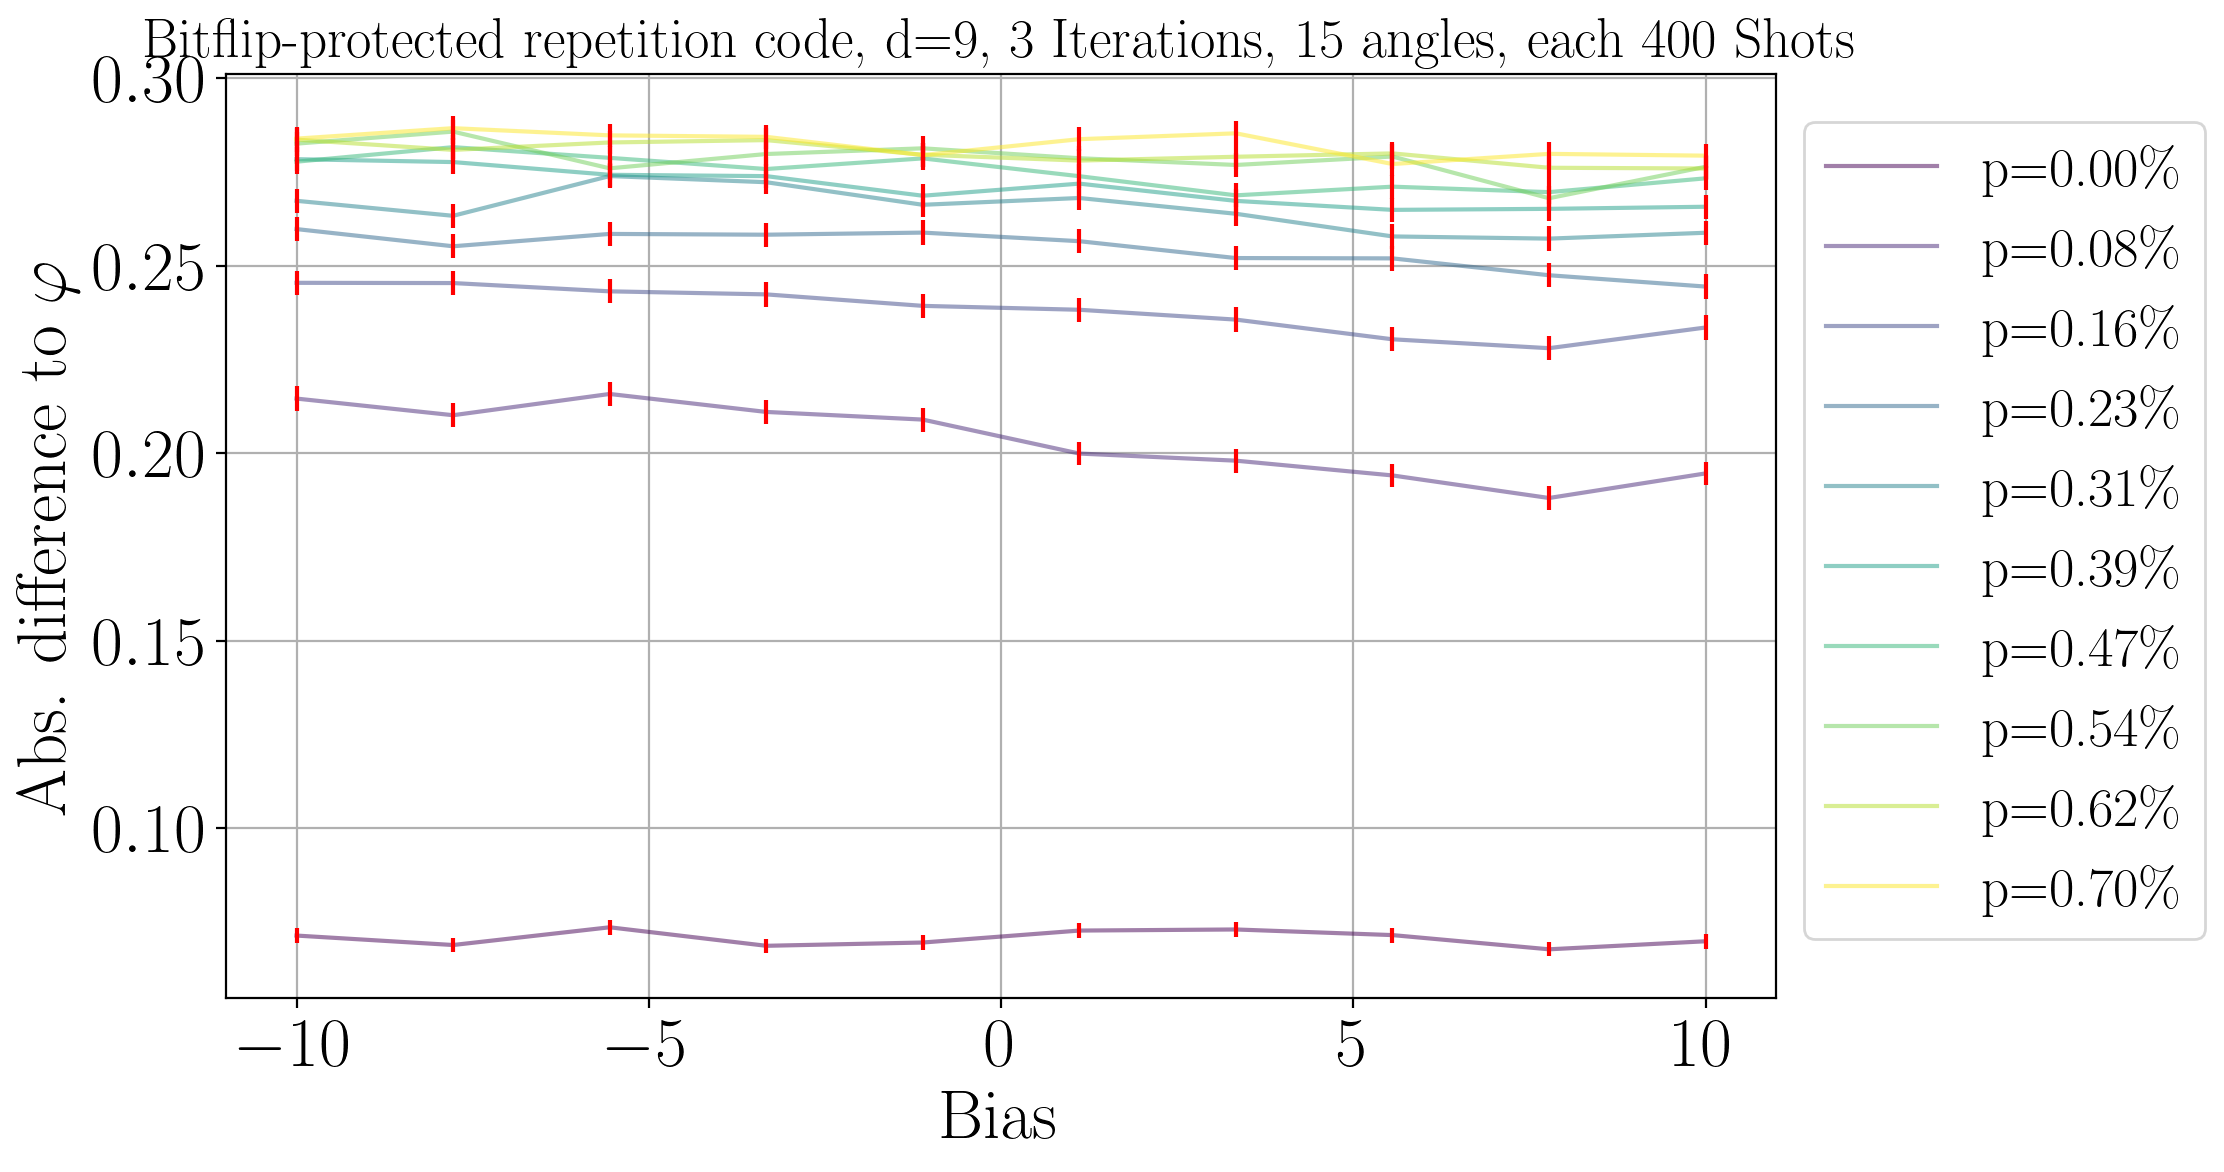
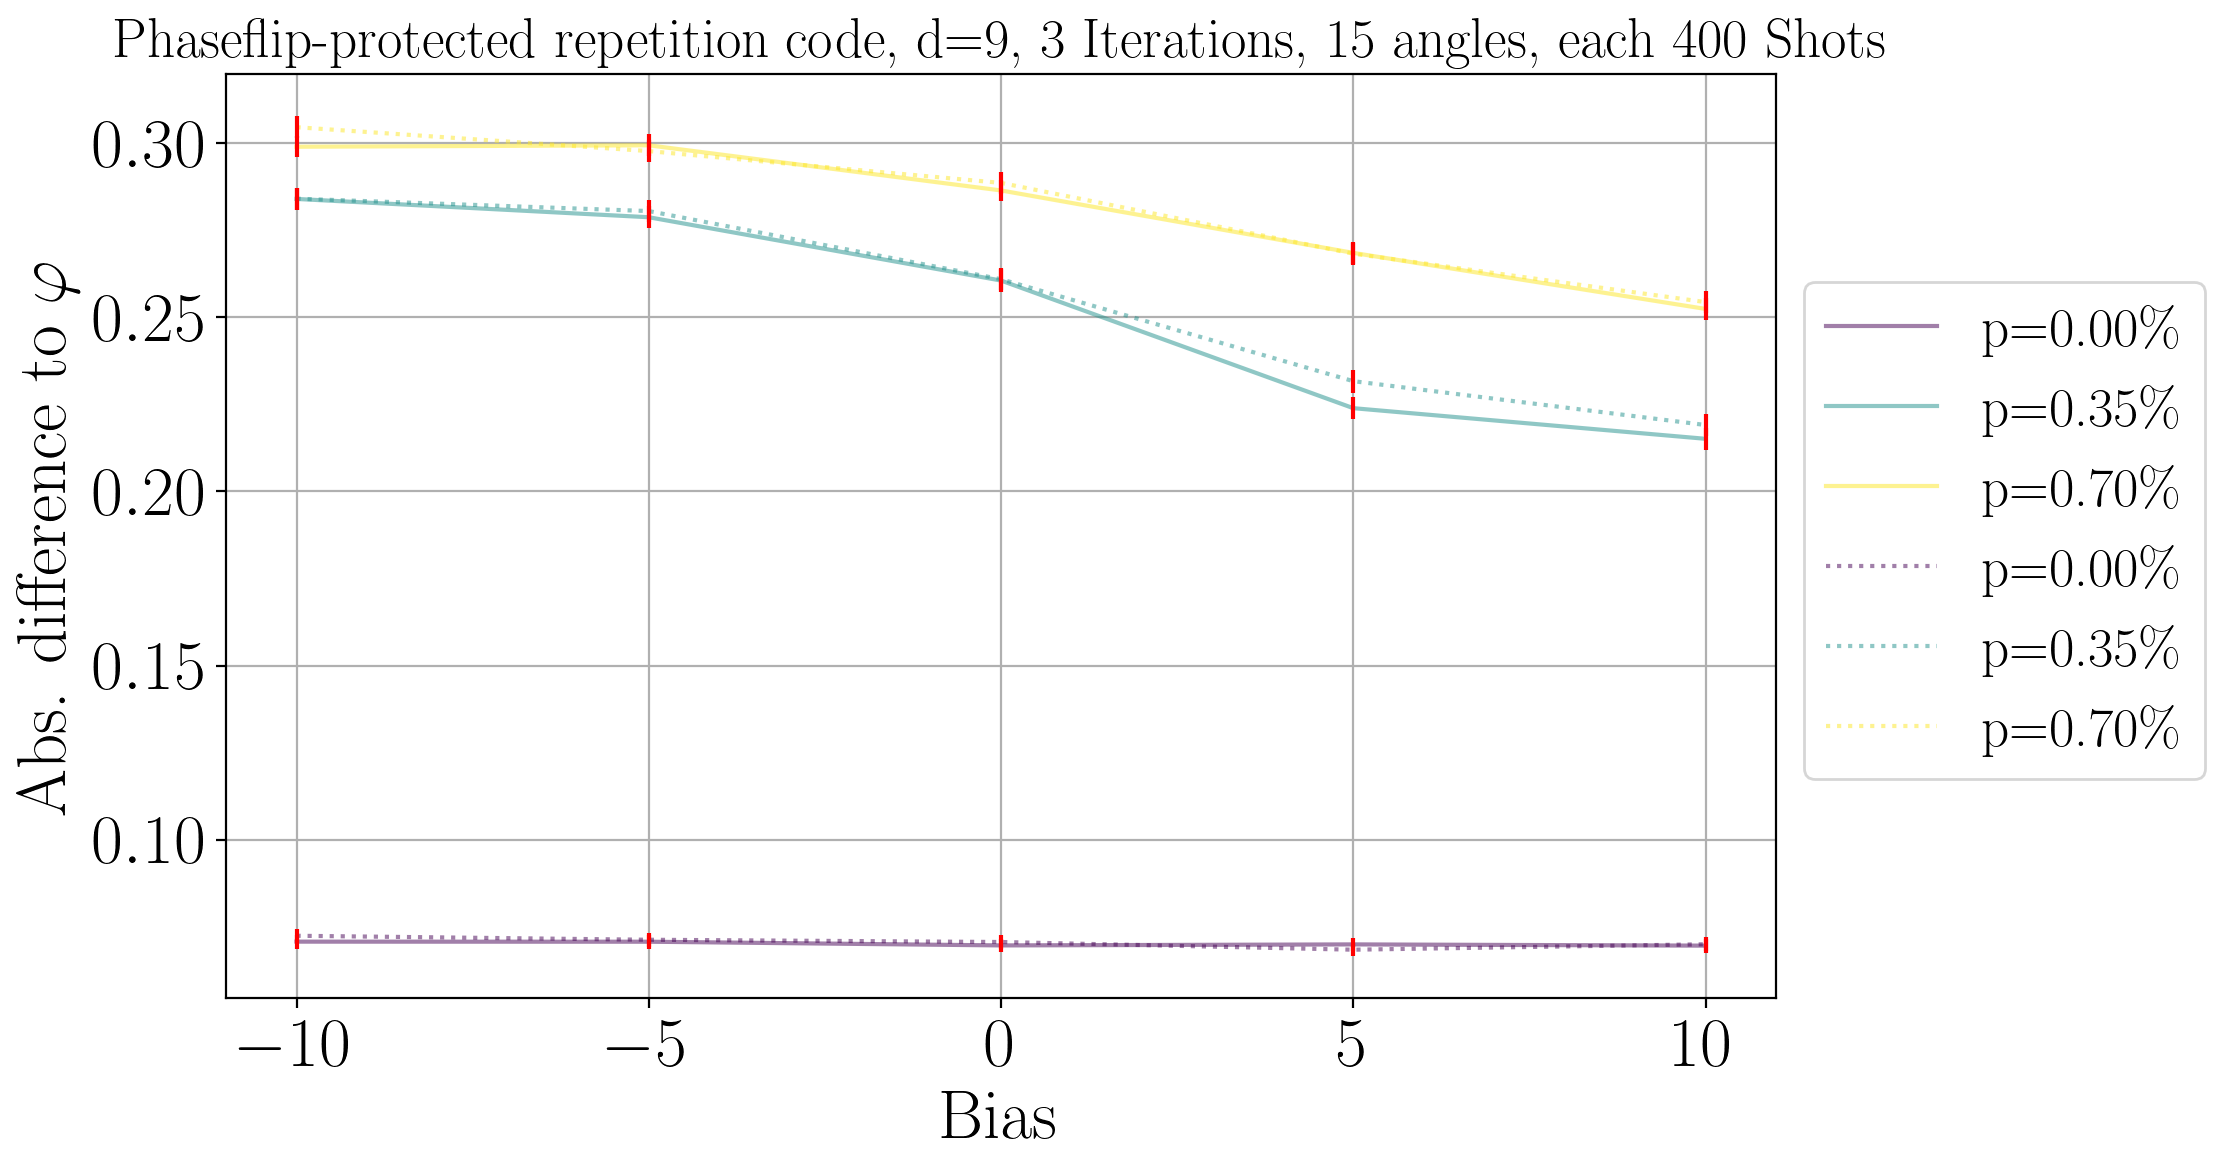
kleiner errorrates und mehr qec (jedes zweite, nicht achte mehr)

diff --git a/HPC/Upload/functions.py b/HPC/Upload/functions.py
@@ -2,7 +2,7 @@ from classes import *
 
 
 def gen_data(name):                   #code mit npz
-    p = np.linspace(0,0.007,3)
+    p = np.linspace(0,0.005,6)
     bias = np.linspace(-10, 10, 5)
 
     y = np.zeros((len(bias), len(p), 15))
@@ -10,17 +10,17 @@ def gen_data(name):                   #code mit npz
 
     for i, b in enumerate(bias):
         for j, r in enumerate(p):
-            # _, _, y_list = avg15_repcode("z", 3, 3, r, qec = False, k = 1, bias = b)
+            _, _, y_list = avg15_repcode("z", 3, 3, r, qec = False, k = 1, bias = b)
             _, _, y_qec_list = avg15_repcode("z", 3, 3, r, qec = True, k = 1, bias = b)
 
-            # y[i, j, :] = y_list
+            y[i, j, :] = y_list
             y_qec[i, j, :] = y_qec_list
 
     np.savez(
-    f"Repcodez_d3_qec{name}.npz",
+    f"Repcodez_d3_all{name}.npz",
     p=p,
     bias=bias,
-    #y=y
+    y=y,
     y_qec=y_qec
     )
 

diff --git a/HPC/Upload/classes.py b/HPC/Upload/classes.py
@@ -6822,12 +6822,12 @@ class RepCode_z:      #Phaseflip protected repetition code
                 self.sdg(pos=pos)
             if i == "t":
                 self.t(pos=pos)
-                if self.err and self.qec_counter%8==0:
+                if self.err and self.qec_counter%2==0:
                     self.qec(pos = pos)
             if i == "tdg":
                 self.tdg(pos=pos)
                 #self.tdg_cheat(pos=pos)
-                if self.err and self.qec_counter%8==0:
+                if self.err and self.qec_counter%2==0:
                     self.qec(pos = pos)
             if i == "h":
                 self.h(pos=pos)